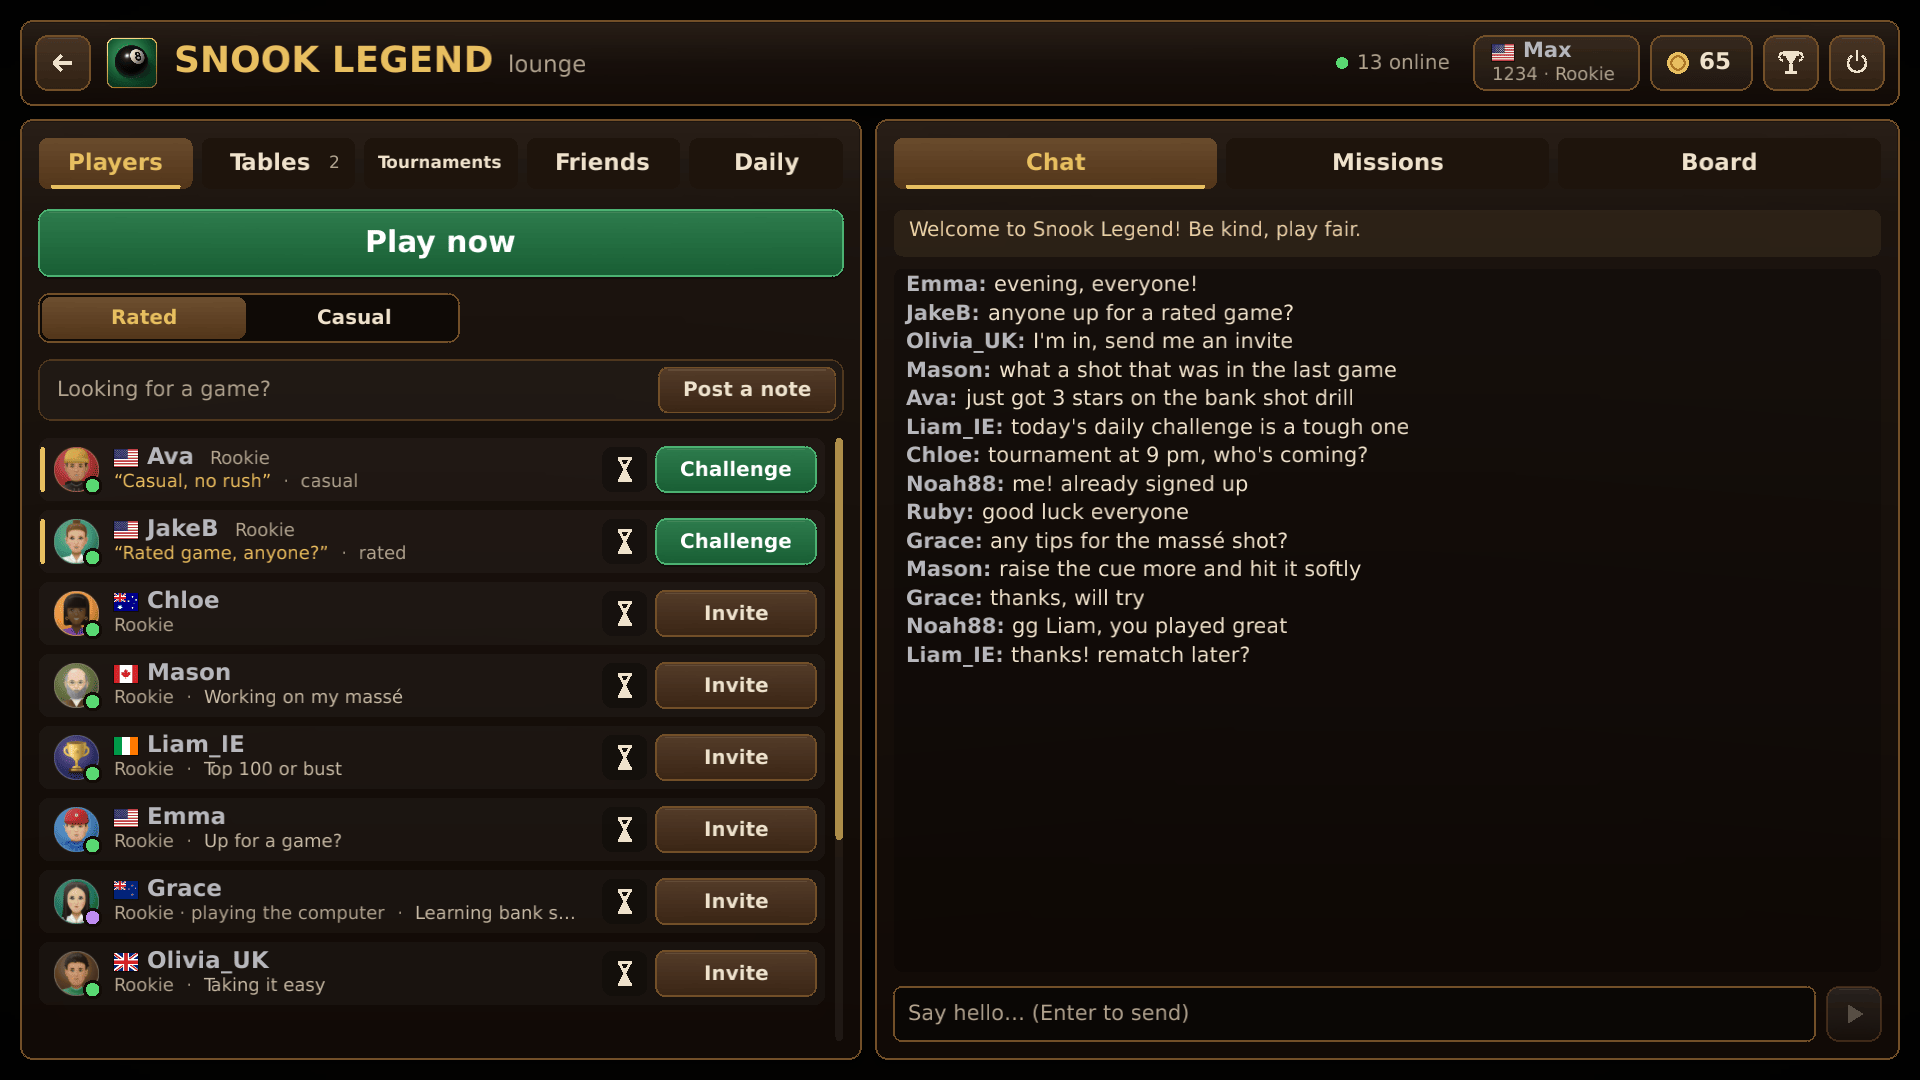
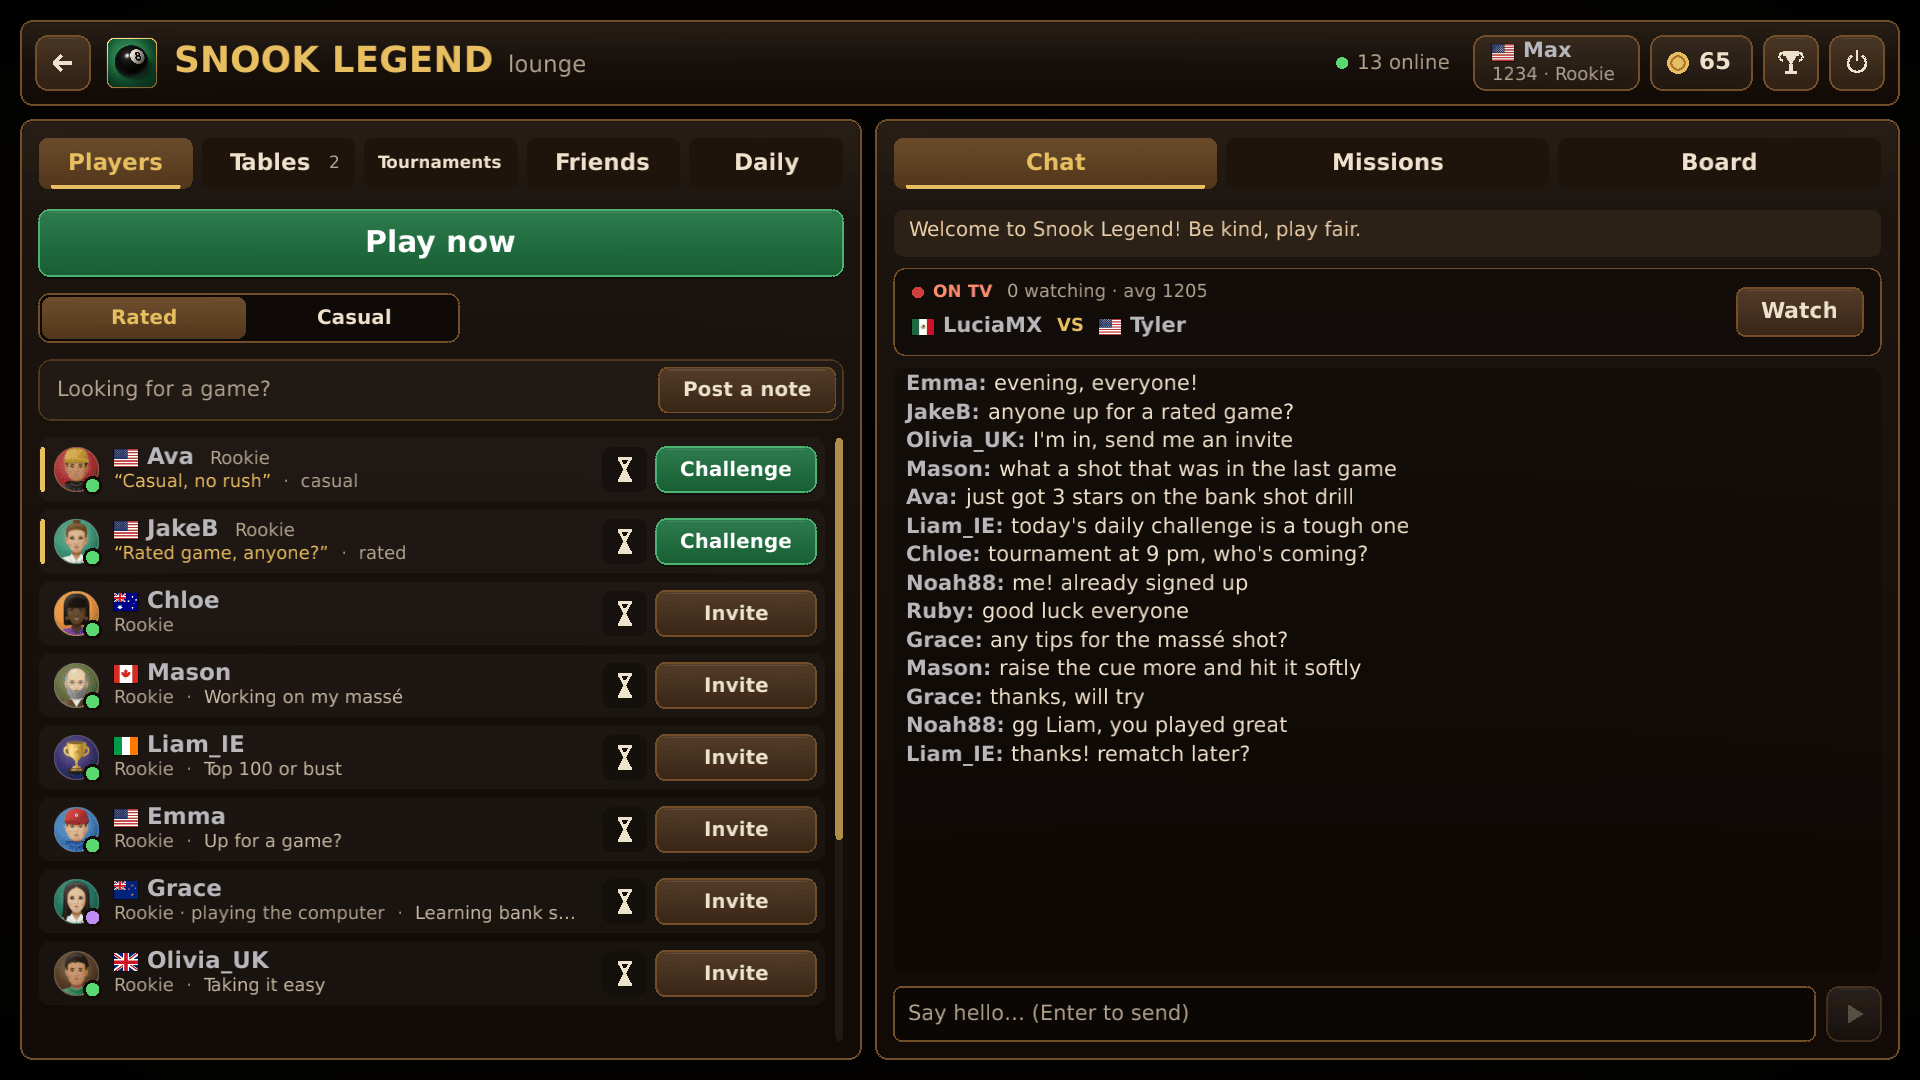
The header's title fits left of the tabs; the lounge shots with a game on TV
"Contra la computadora" ran under the "Partida libre" tab in Spanish: the
title and subtitle of a screen header with tabs are now made smaller, or
shortened, to keep left of them (`screen_header_until`). The Spanish
Store shots of that screen taken again, and the lounge shots in the three
languages show the game on TV again (it had ended on its own).

Claude-Session: https://claude.ai/code/session_0167L8YAo1jy1HuZPgcZqGD4

Changed region(s): [[0.4688, 0.2444, 0.7188, 0.7028], [0.9062, 0.2444, 0.9688, 0.3361]]

diff --git a/crates/client/src/ranking.rs b/crates/client/src/ranking.rs
@@ -50,17 +50,33 @@ pub(crate) fn screen_header(
     title: &str,
     subtitle: Option<&str>,
 ) -> bool {
+    screen_header_until(ui, r, icon, title, subtitle, r.x + r.w - PAD)
+}
+
+/// [`screen_header`] with its title and subtitle kept left of `right`
+/// (tabs on the right of the header): smaller, or shortened, to fit.
+pub(crate) fn screen_header_until(
+    ui: &mut Ui,
+    r: Rect,
+    icon: Icon,
+    title: &str,
+    subtitle: Option<&str>,
+    right: f32,
+) -> bool {
     let back =
         ui.icon_button(Rect::new(r.x + PAD, r.y + 20.0, 36.0, 36.0), Icon::Back, t("Back"), true);
     let mid = r.y + 38.0;
     let x = r.x + PAD + 36.0 + 16.0;
     crate::icons::draw(icon, vec2(x + 12.0, mid), 24.0, GOLD);
+    let room = (right - (x + 34.0)).max(60.0);
+    let (title, size) = ui.fitted(title, 24.0, room, true);
     match subtitle {
         Some(sub) => {
-            ui.text(title, x + 34.0, r.y + 15.0, 24.0, GOLD, true);
-            ui.text(sub, x + 34.0, r.y + 44.0, 13.0, MUTED, false);
+            ui.text(&title, x + 34.0, r.y + 15.0 + (24.0 - size) / 2.0, size, GOLD, true);
+            let (sub, sub_size) = ui.fitted(sub, 13.0, room, false);
+            ui.text(&sub, x + 34.0, r.y + 44.0, sub_size, MUTED, false);
         }
-        None => ui.text(title, x + 34.0, caps_y(mid, 24.0), 24.0, GOLD, true),
+        None => ui.text(&title, x + 34.0, caps_y(mid, size), size, GOLD, true),
     }
     back
 }

diff --git a/crates/client/src/versus.rs b/crates/client/src/versus.rs
@@ -15,7 +15,7 @@ use crate::icons::Icon;
 use crate::ladder::{Claim, Claimer, Progress};
 use crate::online::{GHOST_TIMEOUT, Online};
 use crate::opponents::{self, Opponent};
-use crate::ranking::{HEADER_H, PAD, caps_y, screen_header, text_y};
+use crate::ranking::{HEADER_H, PAD, caps_y, screen_header_until, text_y};
 use crate::ui::{ALERT, BORDER, CREAM, GOLD, MUTED, Ui, rrect, rrect_lines};
 use crate::{MatchMode, MatchSettings};
 
@@ -170,8 +170,14 @@ impl Versus {
         let tab_w =
             (widest + 16.0).clamp(80.0, 108.0).min((r.w * 0.56 - (count - 1.0) * tab_gap) / count);
         let tabs_x = r.x + r.w - PAD - count * tab_w - (count - 1.0) * tab_gap;
-        if screen_header(ui, r, Icon::Robot, t("Against the computer"), Some(&subtitle))
-            || ui.escape()
+        if screen_header_until(
+            ui,
+            r,
+            Icon::Robot,
+            t("Against the computer"),
+            Some(&subtitle),
+            tabs_x - 12.0,
+        ) || ui.escape()
         {
             action = VersusAction::Back;
         }
